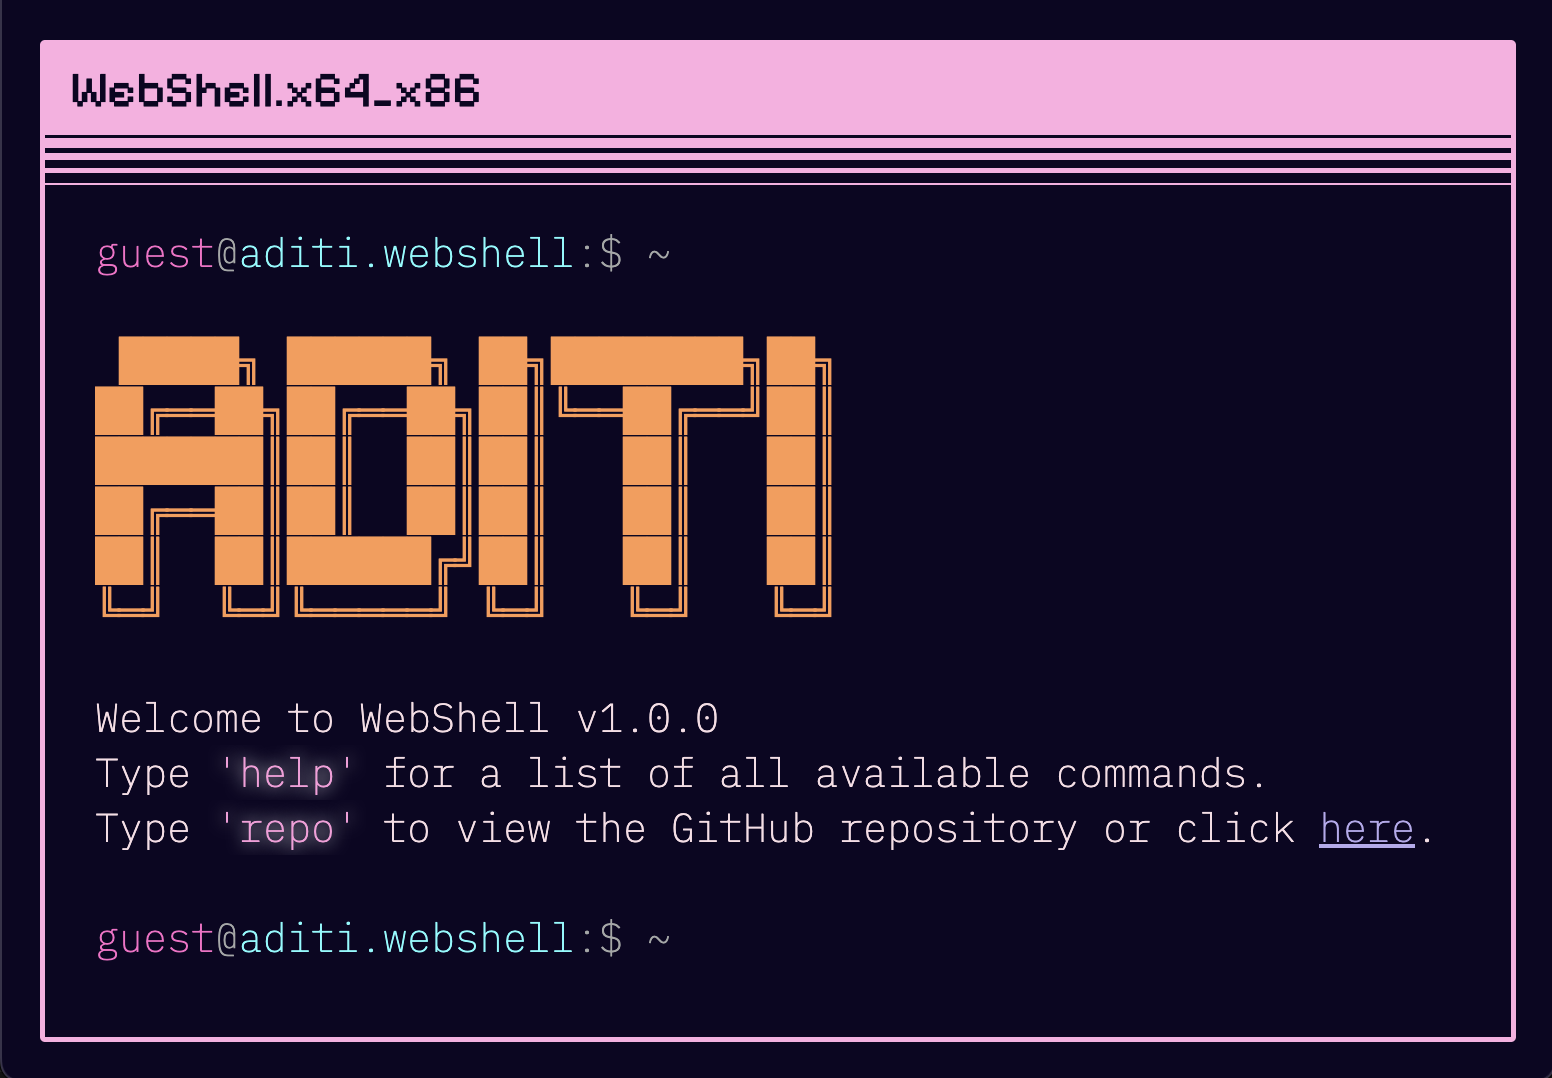
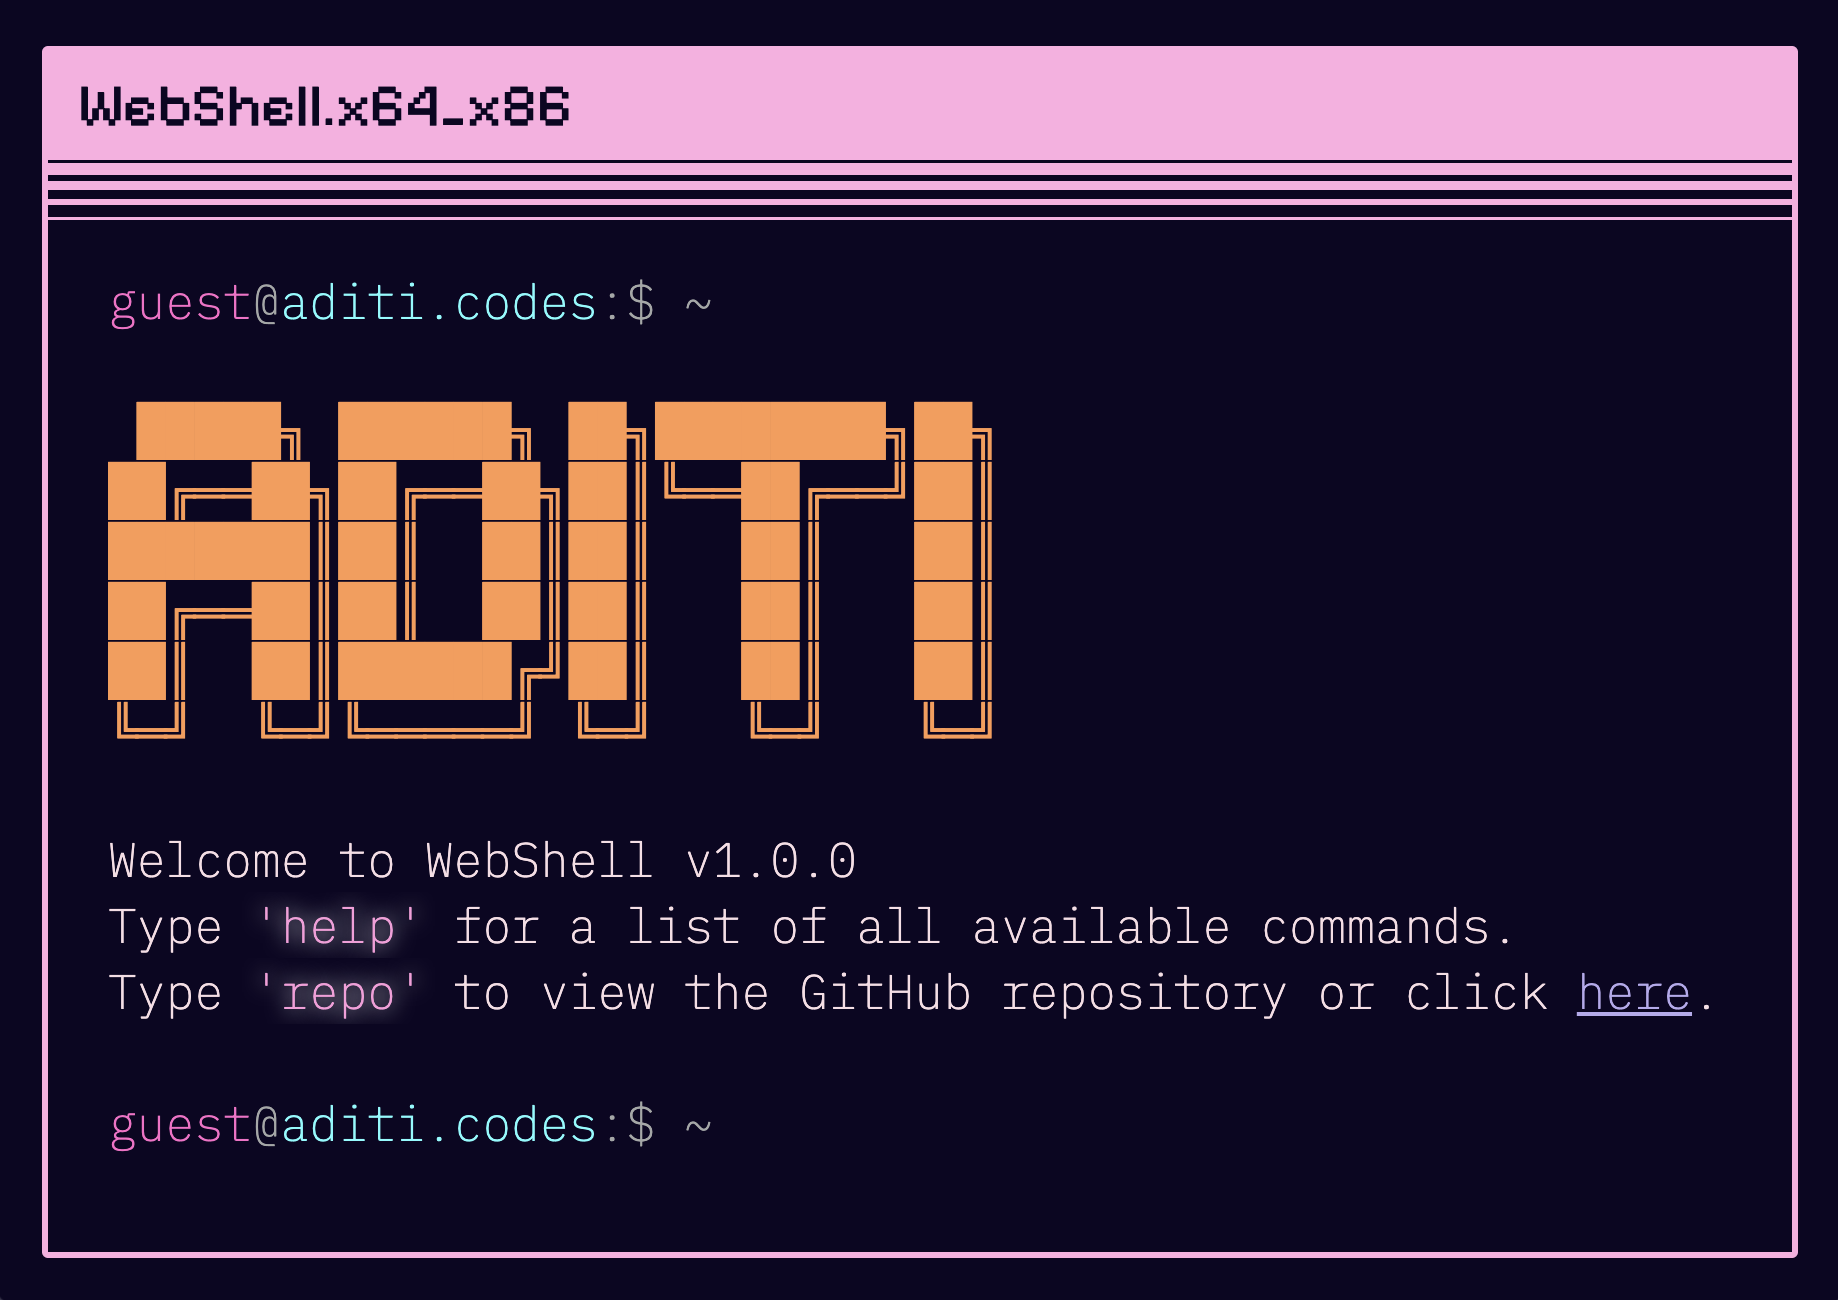
fixed hyperlinks, readme, added home command

diff --git a/src/commands/about.ts b/src/commands/about.ts
@@ -5,17 +5,17 @@ const createAbout = () : string[] => {
 
   const SPACE = "&nbsp;";
   
-  const DEVTO = "dev.to"
   const X = "X (Twitter)"
-  const EMAIL = "Email";
-  const GITHUB = "Github";
   const LINKEDIN = "Linkedin";
+  const GITHUB = "Github";
+  const DEVTO = "dev.to"
+  const EMAIL = "Email";
   
-  const devto = `<i class="fa-solid fa-newspaper"></i> ${DEVTO}`;   
   const x = `<i class='fa-solid fa-x'></i> ${X}`;   
-  const email = `<i class='fa-solid fa-envelope'></i> ${EMAIL}`;   
-  const github = `<i class='fa-brands fa-github'></i> ${GITHUB}`;
   const linkedin = `<i class='fa-brands fa-linkedin'></i> ${LINKEDIN}`;
+  const github = `<i class='fa-brands fa-github'></i> ${GITHUB}`;
+  const devto = `<i class="fa-solid fa-newspaper"></i> ${DEVTO}`;   
+  const email = `<i class='fa-solid fa-envelope'></i> ${EMAIL}`;   
   let string = "";
 
   about.push("<br>");
@@ -24,7 +24,7 @@ const createAbout = () : string[] => {
   string += SPACE.repeat(2);
   string += x;
   string += SPACE.repeat(17 - X.length);
-  string += `<a target='_blank' href='https://x.com/${command.social.x}'>${command.social.x}</a>`;
+  string += `<a target='_blank' href='https://x.com/${command.social.x}'>x/${command.social.x}</a>`;
   about.push(string);
 
   string = '';
@@ -45,7 +45,7 @@ const createAbout = () : string[] => {
   string += SPACE.repeat(2);
   string += devto;
   string += SPACE.repeat(17 - DEVTO.length);
-  string += `<a target='_blank' href='mailto:${command.social.devto}'>${command.social.devto}</a>`;
+  string += `<a target='_blank' href='https://dev.to/${command.social.devto}'>dev.to/${command.social.devto}</a>`;
   about.push(string);
 
   string = '';

diff --git a/src/main.ts b/src/main.ts
@@ -240,14 +240,11 @@ function commandHandler(input: string) {
         window.open(REPO_LINK, "_blank");
       }, 500);
       break;
-    case "linkedin":
-      //add stuff here
-      break;
-    case "github":
-      //add stuff here
-      break;
-    case "email":
-      //add stuff here
+    case 'home':
+      writeLines(["Redirecting to aditi.codes...", "<br>"]);
+      setTimeout(() => {
+        window.open('https://aditi.codes');
+      }, 500);
       break;
     case "rm -rf":
       if (bareMode) {

diff --git a/src/commands/help.ts b/src/commands/help.ts
@@ -2,7 +2,7 @@ const helpObj = {
   "commands": [
     [
     "'about'",
-    "Who made this website?",
+    "Who is Aditi?",
     ],
     [
       "'projects'",
@@ -25,6 +25,10 @@ const helpObj = {
     [
       "'clear'",
       "Clear the terminal."
+    ],
+    [
+      "'home'",
+      "Go back to aditi.codes."
     ]
   ],
 }

diff --git a/README.md b/README.md
@@ -16,9 +16,7 @@
 * **[↑][↓]** to scroll through your command history.
 
 ## ???
-<div align="center">
-  <img alt="banner" src="https://raw.githubusercontent.com/nasan016/webshell/main/res/secret.png">
-</div>
+![webshell.aditi.codes](secret.png)
 How did we get here?
 
 ## Configuration
@@ -40,10 +38,10 @@ Most of the configuration is done in the `config.json` file.
   "title": "WebShell",
   "repoLink": "https://github.com/aditi-dsi/webshell",
   "social": {
-    "x": "https://x.com/halfacupoftea_",
-    "linkedin": "https://linkedin.com/in/aditi-bindal",
-    "github": "https://github.com/aditi-dsi",
-    "devto":"https://dev.to/aditi_b",
+    "x": "halfacupoftea_",
+    "linkedin": "aditi-bindal",
+    "github": "aditi-dsi",
+    "devto":"aditi_b",
     "email": "aditii.b6@email.com"
   },
   "aboutGreeting": "Hi, I am Aditi Bindal, a developer/devrel speciailizing in web3 and ai.",
@@ -54,9 +52,9 @@ Most of the configuration is done in the `config.json` file.
       "https://aisuite.shwetlabs.com"
     ],
     [
-      "Shwet",
-      "Truth Chain for sharing owned text/media with zk-proof, underhood rust smart contracts for solana. ",
-      "https://github.com/yashsangwan00/Shwet"
+      "BlackWell",
+      "A token utility dapp for staking tokens, earning, redeeming rewards & getting credit score for wallet.",
+      "https://github.com/aditi-dsi/blackwell"
     ]
   ]
 }
